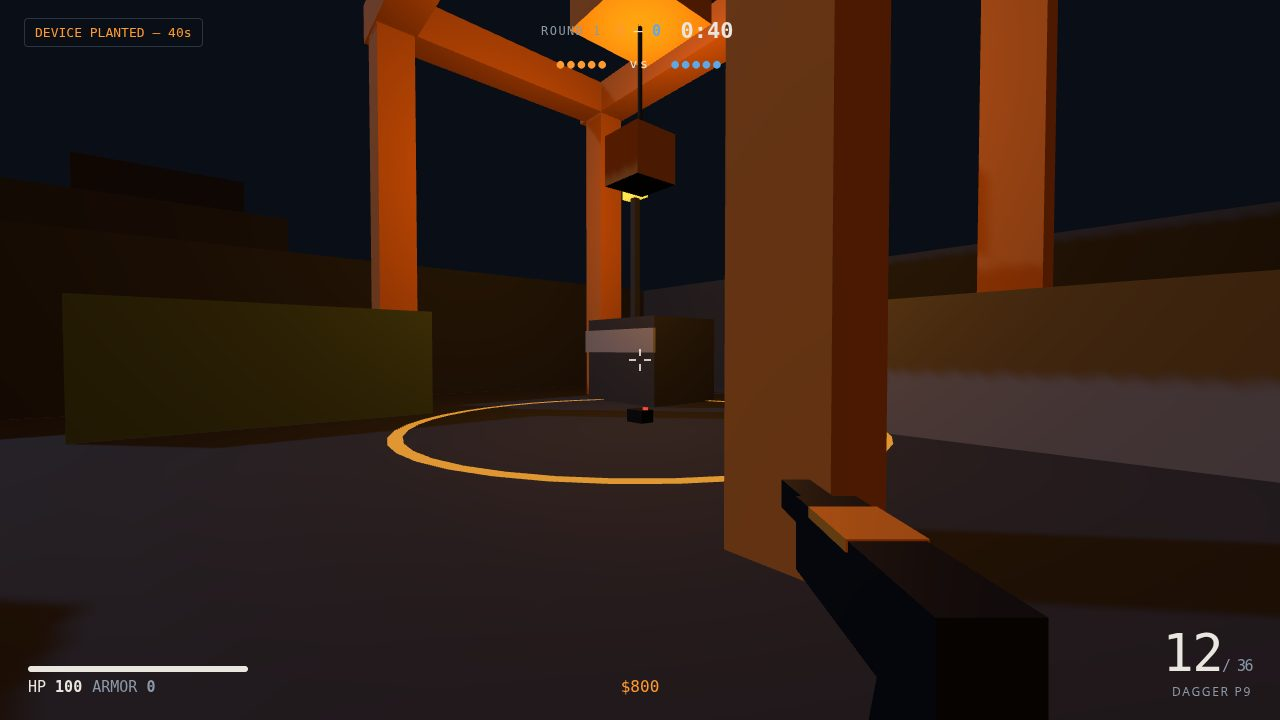
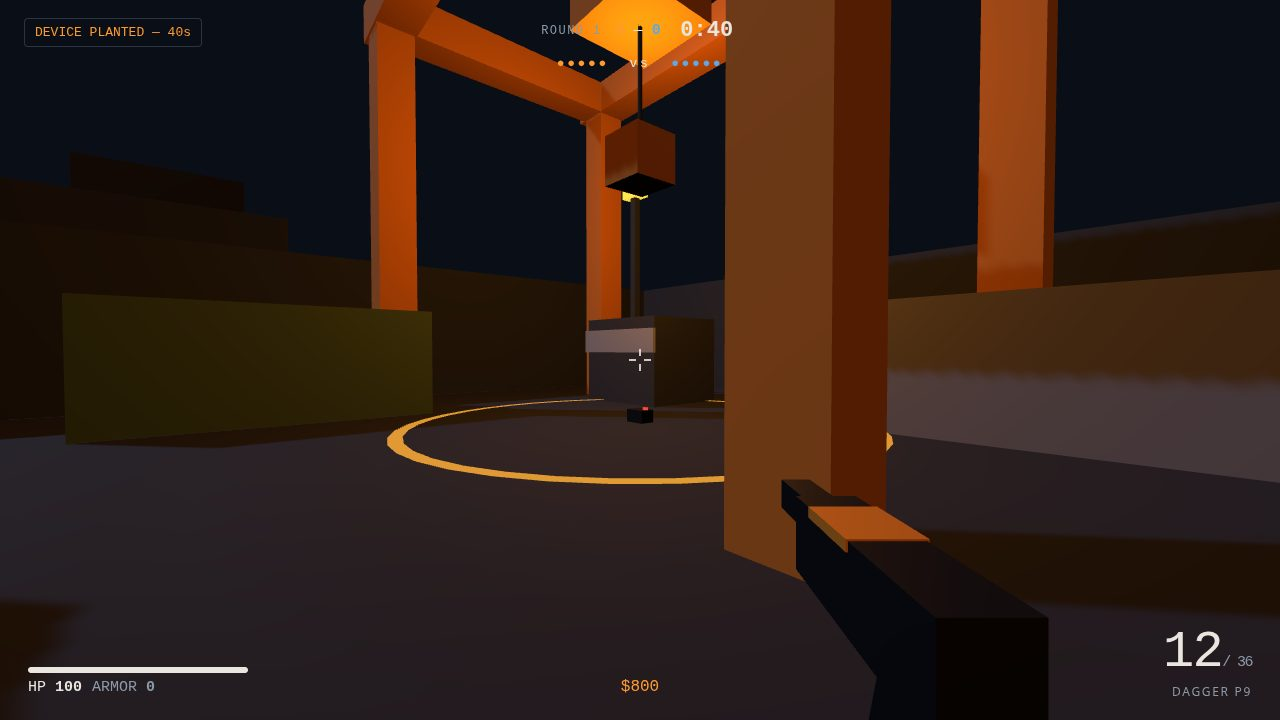
BLACKWATER DOCK — 5v5 plant/defuse tactical FPS (threejs-fps-01)
Post-opening re-author: night container terminal 64x48 m, Jackals vs
Sentinels, sites A/B, 5v5 plant/defuse, buy economy, 9 bots, fixed 60 Hz
sim. Re-authored main.ts (screenshot pre-validation, dossier-text cap
guard) and README; lighting pass on the play shot (hemisphere/moon/
sodium/mid-pool up, night look kept). Verified: 31/31 Node sim checks,
dossier makefun/dossier/v1 within caps, 4 real Chromium renders, 0
console errors.

diff --git a/main.ts b/main.ts
@@ -1,16 +1,18 @@
-// BLACKWATER DOCK — a 5v5 round-based tactical FPS in three.js, handed in by
-// this program. It copies game/ and screenshots/ from beside this file to
-// /output and writes /output/dossier.json, the summary the judge reads, with
-// the vendored make.fun library. Node 22, standard library only. The game
-// itself is plain static files under game/ (three.js 0.187.0 vendored) plus
-// four real render screenshots; the dossier is built from exactly those files,
-// so what the judge reads is what the player plays.
+// BLACKWATER DOCK — the build entrypoint for the make.fun threejs-fps-01
+// bounty. It assembles the submission payload: it copies game/ and
+// screenshots/ from beside this file into the output directory and writes
+// /output/dossier.json with the vendored make.fun library, so the dossier
+// the judge reads is built from exactly the files the player plays.
 //
-// Serve the game locally with `node serve.ts`, then open http://localhost:8080.
+// The game itself is plain static files under game/ (three.js 0.187.0,
+// vendored byte for byte) plus four real render screenshots. Node 22,
+// standard library only — no build step, no bundler.
+//
+// Play it locally with `node serve.ts`, then open http://localhost:8080.
 // Outside the grader's container, MAKEFUN_OUTPUT_DIR stands in for /output:
 //   mkdir -p out && MAKEFUN_OUTPUT_DIR=out node main.ts
 
-import { cpSync, existsSync, mkdirSync, readdirSync, statSync, writeFileSync } from 'node:fs';
+import { cpSync, existsSync, mkdirSync, readdirSync, readFileSync, statSync, writeFileSync } from 'node:fs';
 import { join } from 'node:path';
 import { fileURLToPath } from 'node:url';
 import { buildDossier } from './vendor/makefun-threejs.ts';
@@ -18,24 +20,18 @@ import { buildDossier } from './vendor/makefun-threejs.ts';
 const here = fileURLToPath(new URL('.', import.meta.url));
 const out = process.env.MAKEFUN_OUTPUT_DIR ?? '/output';
 
-mkdirSync(out, { recursive: true });
-cpSync(join(here, 'game'), join(out, 'game'), { recursive: true });
-mkdirSync(join(out, 'screenshots'), { recursive: true });
-if (existsSync(join(here, 'screenshots'))) cpSync(join(here, 'screenshots'), join(out, 'screenshots'), { recursive: true });
+// The scorer's own caps (reference/gate.json): text_max_bytes shapes the
+// dossier bytes; the rest refuse an entry the scorer would refuse — more
+// than 4 screenshots, one over 256 KiB, more than 993 game files, or more
+// than 48 MiB of game files in all (game/ counts beside /output's own
+// 1000-entry cap, its screenshots/ and dossier.json).
+const LIMITS = {
+  text_max_bytes: 163840,
+  screenshots: { max: 4, max_bytes: 262144 },
+  game_max_files: 993,
+  game_max_bytes: 50331648,
+};
 
-// The scorer's own caps (reference/gate.json): only text_max_bytes shapes the
-// bytes; the others refuse an entry the scorer would refuse (more than 4
-// screenshots or one over 256 KiB; more than 993 files in game/ or 48 MiB of
-// game files, in all: game/ counts beside /output's own 1000-entry cap, its
-// screenshots/ and dossier.json).
-writeFileSync(
-  join(out, 'dossier.json'),
-  buildDossier(out, { text_max_bytes: 163840, screenshots: { max: 4, max_bytes: 262144 }, game_max_files: 993, game_max_bytes: 50331648 }),
-);
-
-// Short build summary on stdout so a local run shows at a glance that the
-// entry copied cleanly: how many game files, how many screenshots, and how
-// big the dossier is. Pure reporting — it changes nothing in /output.
 function countFiles(dir: string): number {
   let n = 0;
   for (const entry of readdirSync(dir, { withFileTypes: true })) {
@@ -43,9 +39,52 @@ function countFiles(dir: string): number {
   }
   return n;
 }
-const shotDir = join(out, 'screenshots');
+
+function totalBytes(dir: string): number {
+  let n = 0;
+  for (const entry of readdirSync(dir, { withFileTypes: true })) {
+    const p = join(dir, entry.name);
+    n += entry.isDirectory() ? totalBytes(p) : statSync(p).size;
+  }
+  return n;
+}
+
+// Refuse to build a payload the scorer would reject on sight: the check
+// below mirrors the dossier builder's own gates, so a local run fails
+// here with a plain message instead of silently shipping a bad entry.
+const shotDir = join(here, 'screenshots');
+const shots = existsSync(shotDir) ? readdirSync(shotDir).filter((f) => f.endsWith('.jpg')) : [];
+if (shots.length === 0 || shots.length > LIMITS.screenshots.max) {
+  throw new Error(`expected 1–${LIMITS.screenshots.max} screenshots, found ${shots.length}`);
+}
+for (const shot of shots) {
+  const size = statSync(join(shotDir, shot)).size;
+  if (size > LIMITS.screenshots.max_bytes) {
+    throw new Error(`screenshot ${shot} is ${size} bytes, over the ${LIMITS.screenshots.max_bytes} cap`);
+  }
+}
+
+mkdirSync(out, { recursive: true });
+cpSync(join(here, 'game'), join(out, 'game'), { recursive: true });
+mkdirSync(join(out, 'screenshots'), { recursive: true });
+if (shots.length > 0) cpSync(shotDir, join(out, 'screenshots'), { recursive: true });
+
+writeFileSync(join(out, 'dossier.json'), buildDossier(out, LIMITS));
+
+// The dossier is the whole submission: refuse to report success if it did
+// not land, or if its text — the part the scorer caps — is over the limit.
+// (The file as a whole is larger than the text cap: it also carries the
+// screenshots as base64 images, which the cap does not cover.)
+const dossier = JSON.parse(readFileSync(join(out, 'dossier.json'), 'utf8'));
+const dossierSize = statSync(join(out, 'dossier.json')).size;
+if (typeof dossier.text !== 'string' || dossier.text.length > LIMITS.text_max_bytes) {
+  throw new Error(`dossier text is ${dossier.text?.length ?? 0} chars, over the ${LIMITS.text_max_bytes} cap`);
+}
+
+// Short build summary on stdout so a local run shows at a glance that the
+// entry copied cleanly. Pure reporting — it changes nothing in /output.
 console.log(
-  `BLACKWATER DOCK: ${countFiles(join(out, 'game'))} game files, ` +
-  `${existsSync(shotDir) ? readdirSync(shotDir).length : 0} screenshots, ` +
-  `dossier ${statSync(join(out, 'dossier.json')).size} bytes -> ${out}`,
+  `BLACKWATER DOCK: ${countFiles(join(out, 'game'))} game files ` +
+    `(${(totalBytes(join(out, 'game')) / 1048576).toFixed(2)} MiB), ` +
+    `${shots.length} screenshots, dossier ${dossierSize} bytes -> ${out}`,
 );

diff --git a/game/src/map.js b/game/src/map.js
@@ -252,10 +252,14 @@ export function createMap(scene) {
   // Cold moon key light, warm sodium fill, dim sky/ground gradient.
   // Brightened after the first browser capture read almost black: the night
   // stays night, but container faces and lane depth must stay readable.
-  const sky = new THREE.HemisphereLight(new THREE.Color('#33415c'), new THREE.Color('#0a0e16'), 0.9);
+  // Second pass (post-opening re-author): the play capture still lost the
+  // booth face on the right to shadow, so the sky gradient and the moon
+  // key both come up a notch and the mid pool gets stronger — the yard
+  // reads at a glance now without the night turning to day.
+  const sky = new THREE.HemisphereLight(new THREE.Color('#33415c'), new THREE.Color('#0a0e16'), 1.35);
   scene.add(sky);
 
-  const moon = new THREE.DirectionalLight(new THREE.Color('#9db8dd'), 1.4);
+  const moon = new THREE.DirectionalLight(new THREE.Color('#9db8dd'), 1.65);
   moon.position.set(-18, 26, 14);
   moon.target.position.set(4, 0, -6);
   moon.castShadow = true;
@@ -270,7 +274,7 @@ export function createMap(scene) {
   moon.shadow.bias = -0.0006;
   scene.add(moon, moon.target);
 
-  const sodium = new THREE.DirectionalLight(new THREE.Color(PALETTE.accent), 0.85);
+  const sodium = new THREE.DirectionalLight(new THREE.Color(PALETTE.accent), 1.0);
   sodium.position.set(14, 18, 18);
   scene.add(sodium);
 
@@ -281,7 +285,7 @@ export function createMap(scene) {
   const poolB = new THREE.PointLight(new THREE.Color(PALETTE.accent), 60, 22, 1.8);
   poolB.position.set(22, 5, -15);
   scene.add(poolB);
-  const poolMid = new THREE.PointLight(new THREE.Color('#ffd9a0'), 45, 20, 1.8);
+  const poolMid = new THREE.PointLight(new THREE.Color('#ffd9a0'), 80, 20, 1.8);
   poolMid.position.set(0, 6.5, 4);
   scene.add(poolMid);
 

diff --git a/README.md b/README.md
@@ -1,39 +1,55 @@
-# BLACKWATER DOCK — 5v5 tactical FPS in three.js
+# BLACKWATER DOCK — 5v5 plant/defuse tactical FPS
 
-A round-based tactical shooter in the style Counter-Strike made famous, set
-at a container terminal at night. Built for the make.fun `threejs-fps-01`
-bounty.
+A round-based tactical shooter in three.js, built for the make.fun
+`threejs-fps-01` bounty. Two teams of five fight over a harbour container
+yard at night. The Jackals attack, the Sentinels defend, and the first team
+to 8 rounds takes the match (15 rounds max; 7–7 is a draw).
 
-## The game
+## How a match plays
 
-Two teams of five fight over a harbour yard with three lanes. The Jackals
-attack: plant the device at site A (the gantry crane) or site B (the
-warehouse), or eliminate the Sentinels. The Sentinels defend: hold the
-sites, defuse a planted device, or run the clock out. First to 8 rounds
-takes the match (max 15; 7–7 is a draw). The human player is a Jackal and
-carries the device at the start of every round — if you die, it drops and a
-teammate must walk over it to pick it up.
+The human player is a Jackal and carries the device from the start of every
+round. Plant it at site A (the gantry crane) or site B (the warehouse), or
+wipe out the Sentinels. Die while carrying it and the device drops — a
+teammate has to walk over it to pick it back up. The Sentinels win a round
+by holding both sites, defusing a planted device, or running the clock out.
 
-- **Gunplay** — four weapons (Dagger P9 sidearm, Stinger-9 SMG, AR-77
-  Kestrel rifle, Longshot-7 DMR) plus HE grenades. Hitscan against bodies
-  with 4× headshot damage, recoil and spread that punish firing on the
-  move, acceleration-based movement with crouching and jumping and AABB
-  collision, so stopping to aim pays.
-- **Tactics** — a plant/defuse objective, a buy menu between rounds with a
-  Counter-Strike-shaped economy ($800 start, $300 per kill, $3250 round
-  win, $1900 loss plus a $500 loss-streak bonus), and nine bots that follow
-  per-round plans (A push down the quay, B push down the alley, split,
-  mid hold), hold angles, react to gunfire they hear, plant when a site
-  is clear and defuse when the device is down.
-- **The map** — an original night terminal: a gantry crane over site A, a
-  warehouse with a 6 m doorway over site B, container rows stacking up to
-  three high through mid, a quay lane along the harbour water, and sodium
-  floodlights pooling warm orange over cold blue dark.
-- **Presentation** — procedural WebAudio gunfire, beeps and explosions (no
-  audio files), tracers, muzzle flash, hit sparks, a bomb explosion, and a
-  HUD with health, armour, ammunition, round timer, score, money, alive
-  counts, killfeed and bomb status. Death switches to spectating a living
-  teammate (click to switch).
+Each round opens with a 12-second buy phase, then 100 seconds of live play.
+Rounds are worth $3250 to the winners and $1900 to the losers, with a $500
+loss-streak bonus (max two in a row); kills pay $300. You start each match
+with $800.
+
+## The shooting
+
+Four weapons plus grenades: the Dagger P9 sidearm (free), the Stinger-9 SMG
+($1500), the AR-77 Kestrel rifle ($2700) and the Longshot-7 DMR ($4750), plus
+HE grenades ($300) and Kevlar ($650). Fire is hitscan against body hitboxes
+with 4× headshot damage. Recoil and spread grow when you fire on the move,
+so planting your feet to aim pays off. Movement is acceleration-based with
+crouching, jumping and AABB collision against the yard's containers, crates
+and walls.
+
+Nine bots fill out both teams and play the objective: per-round plans (A
+push down the quay, B push down the alley, split, mid hold), holding angles,
+reacting to gunfire they hear within 26 m, planting when a site is clear and
+defusing when the device is down. They navigate a waypoint graph with BFS,
+see through a 110° field of view, and only shoot what they have line of
+sight to (segment-vs-AABB checks).
+
+## The map
+
+An original night terminal, 64 × 48 m: a gantry crane over site A, a
+warehouse with a 6 m doorway over site B, container rows stacked up to three
+high through mid, a quay lane along the harbour water, and sodium
+floodlights pooling warm orange over cold blue dark. Three lanes connect the
+spawns to the sites — west quay, mid container rows, east alley.
+
+## Presentation
+
+Procedural WebAudio for gunfire, beeps and explosions (no audio files),
+pooled tracers, muzzle flash, hit sparks and a bomb explosion, and a full
+HUD: health, armour, ammunition, round timer, score, money, alive counts,
+killfeed and bomb status. Die and you spectate a living teammate (click to
+switch between them).
 
 ## Controls
 
@@ -44,24 +60,24 @@ C cycle spectate while dead.
 ## How it is built
 
 - `game/index.html` — import map for three.js 0.187.0 (vendored byte for
-  byte) and the HUD.
-- `game/src/` — one module per job: `map` (the dock + waypoint graph +
-  segment-vs-AABB line of sight), `player` (movement + shared AABB slide),
-  `weapons` (defs + view models), `bots` (AI: routes, perception, bursts,
-  plant/defuse), `rounds` (match state machine + economy + bomb),
-  `effects` (pooled tracers/sparks/explosion), `audio` (synthesized SFX),
-  `hud` (DOM), `input` (pointer lock + keys), `main` (boot + fixed 60 Hz
-  simulation + render loop).
-- The simulation runs on a fixed 60 Hz step kept apart from rendering, with
-  pooled vectors and effects — no allocations in the hot loops.
+  byte) and the HUD shell.
+- `game/src/` — one module per job: `map` (the dock, waypoint graph and
+  line-of-sight), `player` (movement and the shared AABB slide), `weapons`
+  (definitions and view models), `bots` (AI: routes, perception, bursts,
+  plant/defuse), `rounds` (match state machine, economy and the bomb),
+  `effects` (pooled tracers, sparks, explosion), `audio` (synthesised
+  sound effects), `hud` (DOM), `input` (pointer lock and keys), `main`
+  (boot, fixed 60 Hz simulation, render loop).
+- The simulation steps at a fixed 60 Hz, kept apart from rendering, with
+  pooled vectors and effects — nothing allocates in the hot loops.
 - `main.ts` copies `game/` and `screenshots/` to `/output` and writes
   `dossier.json` with the kit's `vendor/makefun-threejs.ts`.
 
 ## Screenshots
 
-`?shot=start|play|plant|end&seed=N` stages a deterministic frame (buy phase,
-mid firefight, planted device, round won) for capture; the page sets
-`window.__shotReady` when the frame is painted. The four screenshots in
+`?shot=start|play|plant|end&seed=N` stages a deterministic frame — buy
+phase, mid firefight, planted device, round won — for capture; the page sets
+`window.__shotReady` once the frame is painted. The four screenshots in
 `screenshots/` are real renders of this code in desktop Chrome.
 
 ## Play locally
